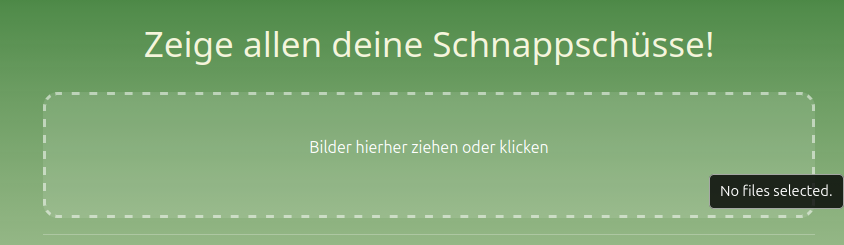
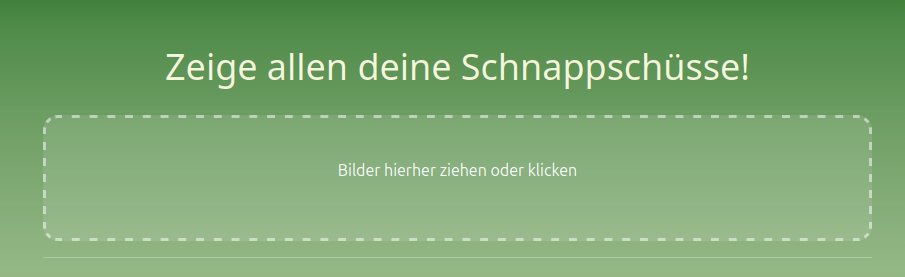
edited readme web-app

diff --git a/Web-App/Readme.md b/Web-App/Readme.md
@@ -26,7 +26,7 @@ Ein interaktiver Slider im Home-Bereich.
 * Optimiert für verschiedene Bildschirmgrößen.
 
 ![Alternativtext: Karussell](./screenies/Karussell.png)
-![Alternativtext: Karussell Turn](./screenies/KarussellTurn.png)
+![Alternativtext: Karussell Turn](./screenies/KarusselTurn.png)
 
 ### Sidebar
 Die intuitive Navigation der App.
@@ -38,9 +38,12 @@ Die intuitive Navigation der App.
 ### Galerie mit Drag-and-Drop
 Das Herzstück für die Fotoverwaltung.
 * **Galerie:** Eine übersichtliche Grid-Ansicht aller hochgeladenen Bilder.
-* **Drag-and-Drop Feld:** Ein spezieller Bereich, in dem neue Bilder einfach per "Drag and Drop" oder auch durch klicken in das Feld hochgeladen werden können. Dies sorgt für eine besonders einfache Bedienung beim Verwalten der Gäste-Fotos.
 
 ![Alternativtext: Galerie Seite](./screenies/Gallerie.png)
+
+* **Drag-and-Drop Feld:** Ein spezieller Bereich, in dem neue Bilder einfach per "Drag and Drop" oder auch durch klicken in das Feld hochgeladen werden können. Dies sorgt für eine besonders einfache Bedienung beim Verwalten der Gäste-Fotos.
+
+
 ![Alternativtext: Drag and Drop](./screenies/DnD.png)
 
 ### Maps Anbindung
